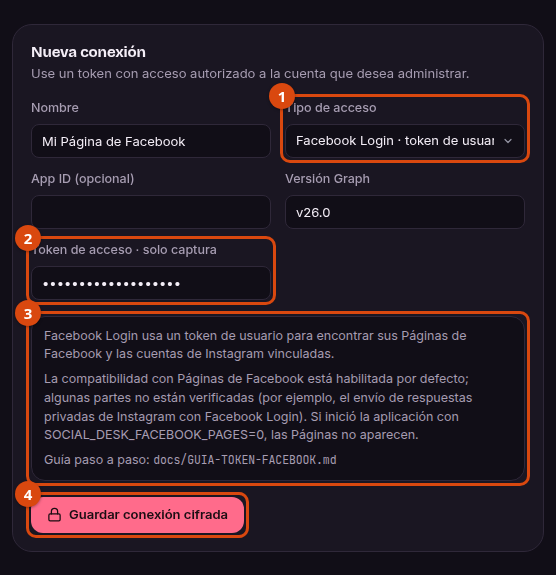
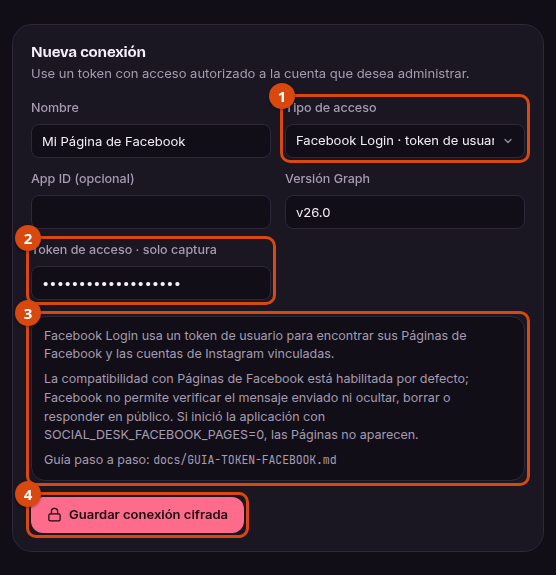
docs(facebook): record Instagram via Facebook Login as verified live
Reading publications and comments, sending the private reply from the Page
and the message readback were verified with a real account on 2026-10-19.

Changed region(s): [[0.0612, 0.68, 0.8561, 0.7391]]

diff --git a/app/platform.ts b/app/platform.ts
@@ -61,7 +61,7 @@ export const FACEBOOK_LOGIN_HELP = {
   guide: 'docs/GUIA-TOKEN-FACEBOOK.md',
   lines: [
     'Facebook Login usa un token de usuario para encontrar sus Páginas de Facebook y las cuentas de Instagram vinculadas.',
-    'La compatibilidad con Páginas de Facebook está habilitada por defecto; algunas partes no están verificadas (por ejemplo, el envío de respuestas privadas de Instagram con Facebook Login). Si inició la aplicación con SOCIAL_DESK_FACEBOOK_PAGES=0, las Páginas no aparecen.',
+    'La compatibilidad con Páginas de Facebook está habilitada por defecto; Facebook no permite verificar el mensaje enviado ni ocultar, borrar o responder en público. Si inició la aplicación con SOCIAL_DESK_FACEBOOK_PAGES=0, las Páginas no aparecen.',
   ],
 } as const;
 

diff --git a/tests/platform-ui.test.ts b/tests/platform-ui.test.ts
@@ -64,6 +64,7 @@ test('the Facebook Login help points to the guide and states Pages are on by def
   assert.match(text, /habilitada por defecto/iu);
   assert.match(text, /SOCIAL_DESK_FACEBOOK_PAGES=0/u);
   assert.doesNotMatch(text, /FACEBOOK_PAGES=1/u);
+  assert.doesNotMatch(text, /Instagram con Facebook Login/u);
   assert.doesNotMatch(PLATFORM_ERROR_LABELS.platform_not_supported!, /FACEBOOK_PAGES=1/u);
   assert.match(PLATFORM_ERROR_LABELS.platform_not_supported!, /SOCIAL_DESK_FACEBOOK_PAGES=0/u);
 });

diff --git a/AGENTS.md b/AGENTS.md
@@ -82,7 +82,7 @@ Así funciona el código hoy. Si la tarea pide cambiarlo, cámbialo.
 15. **Botones interactivos experimentales retirados.** La API rechaza `interactiveMode` distinto de `none` (o títulos) con `interactive_mode_retired`, el encolado ignora un modo heredado y la cola omite (`SKIPPED`) un payload congelado con respuestas rápidas o con botones postback fuera del follow gate. Esos botones no hacen nada al tocarlos.
 16. **«Pedir que me sigan» y el adjunto del recurso están retirados.** Con esta aplicación (solo sondeo), Meta rechazó en vivo el envío posterior al toque (HTTP 403, código 10, subcódigo 2534022, «outside of allowed window»): quien tocaba el botón no recibía nada. Un único interruptor, `FOLLOW_GATE_AVAILABLE = false` en `src/services/follow-gate-rules.ts`, apaga todo: la API rechaza la opción (`follow_gate_retired`) y los adjuntos (`attachment_retired`) y un `PUT` limpia lo guardado; el encolado ignora filas con la opción o un adjunto (mensaje normal, sin sesión); la cola omite (`SKIPPED`, `follow_gate_retired`) un payload congelado con la opción antes de llamar al proveedor; el motor cancela (`CANCELLED`, `follow_gate_retired`) las sesiones `AWAITING_TAP` sin llamar a Meta y no toca las cerradas; la interfaz no muestra la opción. La opción `followGateAvailable` de los servicios existe para las pruebas del código inactivo. Los puntos 12-14 describen ese código inactivo.
 17. **Adopción de cuentas huérfanas.** Una cuenta que ya existe bajo otra conexión pasa a una conexión nueva si la dueña actual está `disconnected` (incluye las eliminadas) y la coincidencia es única; con dueña activa o coincidencia ambigua se rechaza. Seleccionar sin `confirmed: true` responde `account_adoption_required` y no cambia nada. La adopción actualiza `connection_id` y los datos de descubrimiento en una transacción; conserva `account_id`, historial, cola y automatizaciones, y no requiere migración.
-18. **Páginas de Facebook.** La constante `FACEBOOK_PAGES_AVAILABLE = false` está en `src/services/facebook-pages-rules.ts`. Está **habilitada por defecto**; el interruptor de apagado es la variable de entorno `SOCIAL_DESK_FACEBOOK_PAGES=0` (o `false`), que `loadConfig` convierte en `facebookPages` y `server.ts` pasa a los servicios como la opción `facebookPagesAvailable` (las pruebas la usan igual). Verificado en vivo: leer publicaciones y comentarios, y enviar una respuesta privada a quien comenta sin rol en la app (entregada a Messenger, aparece en «Solicitudes de mensajes»; el reescaneo no duplica; es una respuesta privada **por comentario**, así que la misma persona con dos comentarios recibe dos mensajes). No verificado o no disponible: leer de vuelta el mensaje (Meta no lo permite), ocultar, borrar y la respuesta pública (rechazadas), y el envío de respuestas privadas de Instagram con Facebook Login (la lectura de sus publicaciones y comentarios sí se verificó en vivo). Quien comenta con rol en la app llega con `from` y Meta devuelve `can_reply_privately=false`: queda en revisión como `private_reply_unavailable` y no se envía nada. Con la variable en `0`/`false`: el proveedor, el escáner, el Monitoreo, la cola y `listMedia` responden `platform_not_supported` ante una cuenta con `platform = 'facebook'` y la cola no la procesa. El `normalized_username` de una Página va con espacio de nombres (`facebook:<ID de la Página>`) para no colisionar con Instagram. Ningún endpoint de Instagram se ejecuta contra una Página, con la variable en cualquier valor. La interfaz muestra la plataforma de cada cuenta, deshabilita la respuesta pública y la Moderación para Facebook y no ofrece «Verificar lectura» para sus mensajes: Meta no permite esa verificación.
+18. **Páginas de Facebook.** La constante `FACEBOOK_PAGES_AVAILABLE = false` está en `src/services/facebook-pages-rules.ts`. Está **habilitada por defecto**; el interruptor de apagado es la variable de entorno `SOCIAL_DESK_FACEBOOK_PAGES=0` (o `false`), que `loadConfig` convierte en `facebookPages` y `server.ts` pasa a los servicios como la opción `facebookPagesAvailable` (las pruebas la usan igual). Verificado en vivo: leer publicaciones y comentarios, y enviar una respuesta privada a quien comenta sin rol en la app (entregada a Messenger, aparece en «Solicitudes de mensajes»; el reescaneo no duplica; es una respuesta privada **por comentario**, así que la misma persona con dos comentarios recibe dos mensajes). No verificado o no disponible: leer de vuelta el mensaje (Meta no lo permite), ocultar, borrar y la respuesta pública (rechazadas), y los botones de enlace. Instagram con Facebook Login se verificó en vivo: lectura de publicaciones y comentarios, envío de la respuesta privada desde la Página y lectura del mensaje enviado. Quien comenta con rol en la app llega con `from` y Meta devuelve `can_reply_privately=false`: queda en revisión como `private_reply_unavailable` y no se envía nada. Con la variable en `0`/`false`: el proveedor, el escáner, el Monitoreo, la cola y `listMedia` responden `platform_not_supported` ante una cuenta con `platform = 'facebook'` y la cola no la procesa. El `normalized_username` de una Página va con espacio de nombres (`facebook:<ID de la Página>`) para no colisionar con Instagram. Ningún endpoint de Instagram se ejecuta contra una Página, con la variable en cualquier valor. La interfaz muestra la plataforma de cada cuenta, deshabilita la respuesta pública y la Moderación para Facebook y no ofrece «Verificar lectura» para sus mensajes: Meta no permite esa verificación.
 19. **Motor de comentarios de Páginas.** Lectura de publicaciones (`/{page-id}/feed`) y comentarios (`filter=stream`), respuesta privada por `POST /{page-id}/messages` con `recipient.comment_id` (JSON, token solo en la cabecera `Authorization`). Los comentarios de personas sin rol en la app llegan **sin `from`**: no hay autor ni usuario, y `{{username}}` se renderiza vacío y ordenado («Hola {{username}}, gracias» → «Hola, gracias»). La Página es el autor cuyo `from.id` es el ID de la Página (su comentario raíz no es elegible; su respuesta en el hilo, o `can_reply_privately: false`, marca el comentario como ya respondido y se omite sin intención ni POST). Los botones URL se envían como líneas de texto `<título>: <https url>`. La confirmación de Facebook es la aceptación de Meta con `message_id`; se registra un evento `readback` con `readback_not_available_facebook` y `verifyReadback` responde `readback_not_available_for_platform`. Ocultar, borrar y la respuesta pública se rechazan con `platform_feature_not_supported` (la respuesta pública pasa a `SKIPPED`). Los puntos 3-6 siguen igual (un `UNKNOWN_OUTCOME` no se reintenta; un 190 invalida la conexión).
 20. **Eliminar cuenta: solo cuentas desconectadas sin historial de envíos.** `purgeAccount` (`src/db/account-purge.ts`) borra la cuenta y todo lo suyo (cada tabla con `account_id`, descubierta del esquema, no de una lista a mano) en una transacción con claves foráneas activas, sin dejar filas huérfanas; si su conexión queda desconectada o eliminada y sin otras cuentas, borra también esa conexión, y barre cualquier otra conexión que la persona eliminó y que ya no tenga cuentas (sin registros fantasma); una conexión solo desconectada, no eliminada, se conserva para poder reconectarla. Una cuenta que no está `disconnected` se rechaza (`account_not_disconnected`); una con cualquier historial de envíos (cola, intentos, eventos de gate, acciones de moderación) se rechaza (`account_has_send_history`) y **no se oculta ni se borra nada**. No debilita los invariantes 5, 6 y 10: los triggers de solo inserción no se tocan.
 

diff --git a/docs/REFERENCIA-TECNICA.md b/docs/REFERENCIA-TECNICA.md
@@ -652,7 +652,7 @@ Base para gestionar Páginas de Facebook junto a las cuentas de Instagram. **Est
 - **Descubrimiento sin `instagram_basic` (por verificar con una Página real):** con el interruptor encendido, si `/me/accounts?fields=id,name,access_token,tasks,instagram_business_account` es rechazado con el código 100 de Meta, el proveedor repite **una sola vez** el listado sin `instagram_business_account` y devuelve solo candidatos de Página (sin Instagram ni consultas por cuenta vinculada). Cualquier otro error (190, 10, 200…) se propaga sin reintento, y con el interruptor apagado la consulta y el fallo no cambian.
 - **Instagram con Facebook Login y `account_type` (corrección de un error previo):** el nodo de usuario de Instagram en `graph.facebook.com` no documenta el campo `account_type` (solo existe en el nodo de Instagram Login, `graph.instagram.com`); pedirlo hacía que Meta respondiera código 100 y abortara todo el descubrimiento, incluso con las Páginas apagadas. La consulta por Página ahora pide solo `id,username`, así que el candidato de Instagram de Facebook Login no trae `accountType`. El flujo de Instagram Login sigue pidiendo `account_type` en `graph.instagram.com`. `instagram_basic` sigue siendo necesario para leer el nodo de Instagram.
 - **Identidad de la conexión:** editar una conexión con un token de otra identidad (por ejemplo, de un token de Página a uno de usuario) falla la validación con `connection_identity_mismatch`; la interfaz lo explica y la salida es eliminar la conexión y crear una nueva.
-- **Consulta opcional de Instagram por Página (por verificar con una Página real):** con el interruptor encendido, si `/{ig-id}?fields=id,username` (con el token de la Página) es rechazada con un error de clase permisos/campo (código 100, 10 o 200 de Meta, p. ej. falta `instagram_basic`), solo se omite el candidato de Instagram de esa Página: el candidato de la Página se devuelve igual y el bucle continúa con las demás. No hay reintento; cualquier otro error (190, límites de uso, 5xx, respuestas inválidas) se propaga sin cambios, y con el interruptor apagado el error se propaga como siempre.
+- **Consulta opcional de Instagram por Página (verificada en vivo con una Página real: devuelve el usuario de Instagram vinculado):** con el interruptor encendido, si `/{ig-id}?fields=id,username` (con el token de la Página) es rechazada con un error de clase permisos/campo (código 100, 10 o 200 de Meta, p. ej. falta `instagram_basic`), solo se omite el candidato de Instagram de esa Página: el candidato de la Página se devuelve igual y el bucle continúa con las demás. No hay reintento; cualquier otro error (190, límites de uso, 5xx, respuestas inválidas) se propaga sin cambios, y con el interruptor apagado el error se propaga como siempre.
 - **Token de Página pegado directamente (por verificar con una Página real):** con el interruptor encendido, si tras ese reintento el listado sigue fallando con el código 100 (un token de Página no tiene `/me/accounts`), el proveedor trata el token como token de Página: pide `GET /me?fields=id,name` y, en una solicitud aparte y opcional, `GET /me?fields=tasks` (si Meta la rechaza, se omiten las tareas sin fallar el descubrimiento). Devuelve **un solo** candidato de Página (`platform = 'facebook'`, `accountType = 'PAGE'`, capacidades `identity_read`, `page_task:*` si se obtuvieron y la marca `page_token_direct`), sin candidatos de Instagram, y guarda el token pegado como token de esa Página (cifrado bajo `account:<id>`). Sin `id` o `name` responde `meta_invalid_identity`. Límite: listado + reintento + `/me` (+ `tasks`), sin bucles; cualquier otro error (190, 10, 200…) del reintento se propaga sin llamar a `/me`.
 - **Apagada = inerte:** con el interruptor apagado ningún endpoint de Instagram ni de Facebook puede ejecutarse contra una cuenta `facebook`. `MetaProvider` (todas las operaciones pasan por `accountContext`, que decide por la plataforma guardada), `ConnectionService.listMedia`, `Scanner.scanMedia` y `Scheduler.start` responden `platform_not_supported` (`PlatformNotSupportedError`, HTTP 409 en la API); `startAll`, cada ciclo del Monitoreo y la cola (`nextQueued`, respuesta pública) omiten las cuentas `facebook`. La opción `facebookPagesAvailable` de `MetaProvider`, `ConnectionService`, `Scanner`, `Scheduler` y `QueueService` es lo que activa o apaga todo; sin ella (o en `false`) el comportamiento es el descrito aquí.
 

diff --git a/README.md b/README.md
@@ -101,8 +101,8 @@ Todo corre en tu máquina: la interfaz web, la base de datos, la bóveda de cred
 Además de Instagram, la aplicación puede responder por mensaje privado a los comentarios de una **Página de Facebook**. Está **habilitada por defecto**; algunas partes no están verificadas (ver abajo). Para apagarla, inicia la aplicación con `SOCIAL_DESK_FACEBOOK_PAGES=0` (o `false`).
 
 - **Cómo usarla:** no hace falta activar nada (para apagarla, ver [Variables de entorno](#variables-de-entorno)). En Conexiones, usa Facebook Login con un token de usuario, «Probar y descubrir» y «Seleccionar» la Página. La guía paso a paso para conseguir el token está en [docs/GUIA-TOKEN-FACEBOOK.md](docs/GUIA-TOKEN-FACEBOOK.md).
-- **Qué funciona (verificado en vivo, 2026-10-14):** leer publicaciones y comentarios de la Página, incluidos los de personas sin rol en tu app (llegan sin autor, así que `{{username}}` se reemplaza por un saludo limpio), y enviar una respuesta privada a esas personas (entregada a Messenger; aparece en «Solicitudes de mensajes» de la persona). Un reescaneo no duplica el mensaje. La respuesta privada es **por comentario**: si la misma persona comenta dos veces, recibe dos mensajes.
-- **Qué no funciona o no está verificado:** respuesta pública, moderación (ocultar o borrar), lectura verificada del mensaje enviado (Meta no la permite; la interfaz lo dice), botones (los enlaces van como texto), la lectura de cuentas de Instagram con Facebook Login, webhooks y límites de uso. Quien comenta **con rol en tu app** (o que usa la app) llega con autor y Meta responde `can_reply_privately=false`: queda en Revisión pendiente como `private_reply_unavailable` y no se envía nada.
+- **Qué funciona (verificado en vivo, 2026-10-14 y 2026-10-19):** leer publicaciones y comentarios de la Página, incluidos los de personas sin rol en tu app (llegan sin autor, así que `{{username}}` se reemplaza por un saludo limpio), y enviar una respuesta privada a esas personas (entregada a Messenger; aparece en «Solicitudes de mensajes» de la persona). Un reescaneo no duplica el mensaje. La respuesta privada es **por comentario**: si la misma persona comenta dos veces, recibe dos mensajes. Con Facebook Login también funcionan las cuentas de Instagram vinculadas a la Página: lectura de publicaciones y comentarios, respuesta privada enviada desde la Página (entregada) y lectura verificada del mensaje enviado.
+- **Qué no funciona o no está verificado:** respuesta pública, moderación (ocultar o borrar), lectura verificada del mensaje enviado (Meta no la permite; la interfaz lo dice), botones (los enlaces van como texto), webhooks y límites de uso. Quien comenta **con rol en tu app** (o que usa la app) llega con autor y Meta responde `can_reply_privately=false`: queda en Revisión pendiente como `private_reply_unavailable` y no se envía nada.
 - **Reglas de Meta que siguen igual:** una respuesta privada por comentario, ventana de 7 días, y si otra herramienta (por ejemplo, Meta Business Suite) responde a los mismos comentarios compite por esa única respuesta: desactívala antes.
 - Todo empieza en **Dry Run**, como con Instagram. El manual en PDF y sus capturas todavía no incluyen Facebook.
 

diff --git a/docs/GUIA-TOKEN-FACEBOOK.md b/docs/GUIA-TOKEN-FACEBOOK.md
@@ -119,9 +119,9 @@ Con el [Depurador de tokens de acceso](https://developers.facebook.com/tools/deb
 | Una respuesta privada **por comentario**: la misma persona con dos comentarios recibe dos mensajes | **Verificado en vivo** |
 | Comentarista con rol en la app: llega con `from` y Meta devuelve `can_reply_privately=false` (Revisión pendiente `private_reply_unavailable`, no se envía) | **Verificado en vivo** |
 | Instagram vinculado, leído con Facebook Login (publicaciones y comentarios del reel) | **Verificado en vivo** |
-| Instagram vinculado: envío de la respuesta privada con Facebook Login | **No verificado** |
+| Instagram vinculado: envío de la respuesta privada con Facebook Login (persona sin rol; llegó al destinatario) y lectura del mensaje enviado (`observedMatches`) | **Verificado en vivo** |
 | Botones de enlace | **No verificado** (por eso van como texto) |
-| Lectura del mensaje enviado (readback) | **No verificado** (no se afirma) |
+| Lectura del mensaje enviado (readback) en Facebook | **No verificado** (no se afirma) |
 | Respuesta pública | **No verificado** (no disponible) |
 | Ocultar o borrar comentarios | **No verificado** (no disponible) |
 | Webhooks | **No verificado** (la aplicación solo sondea) |
